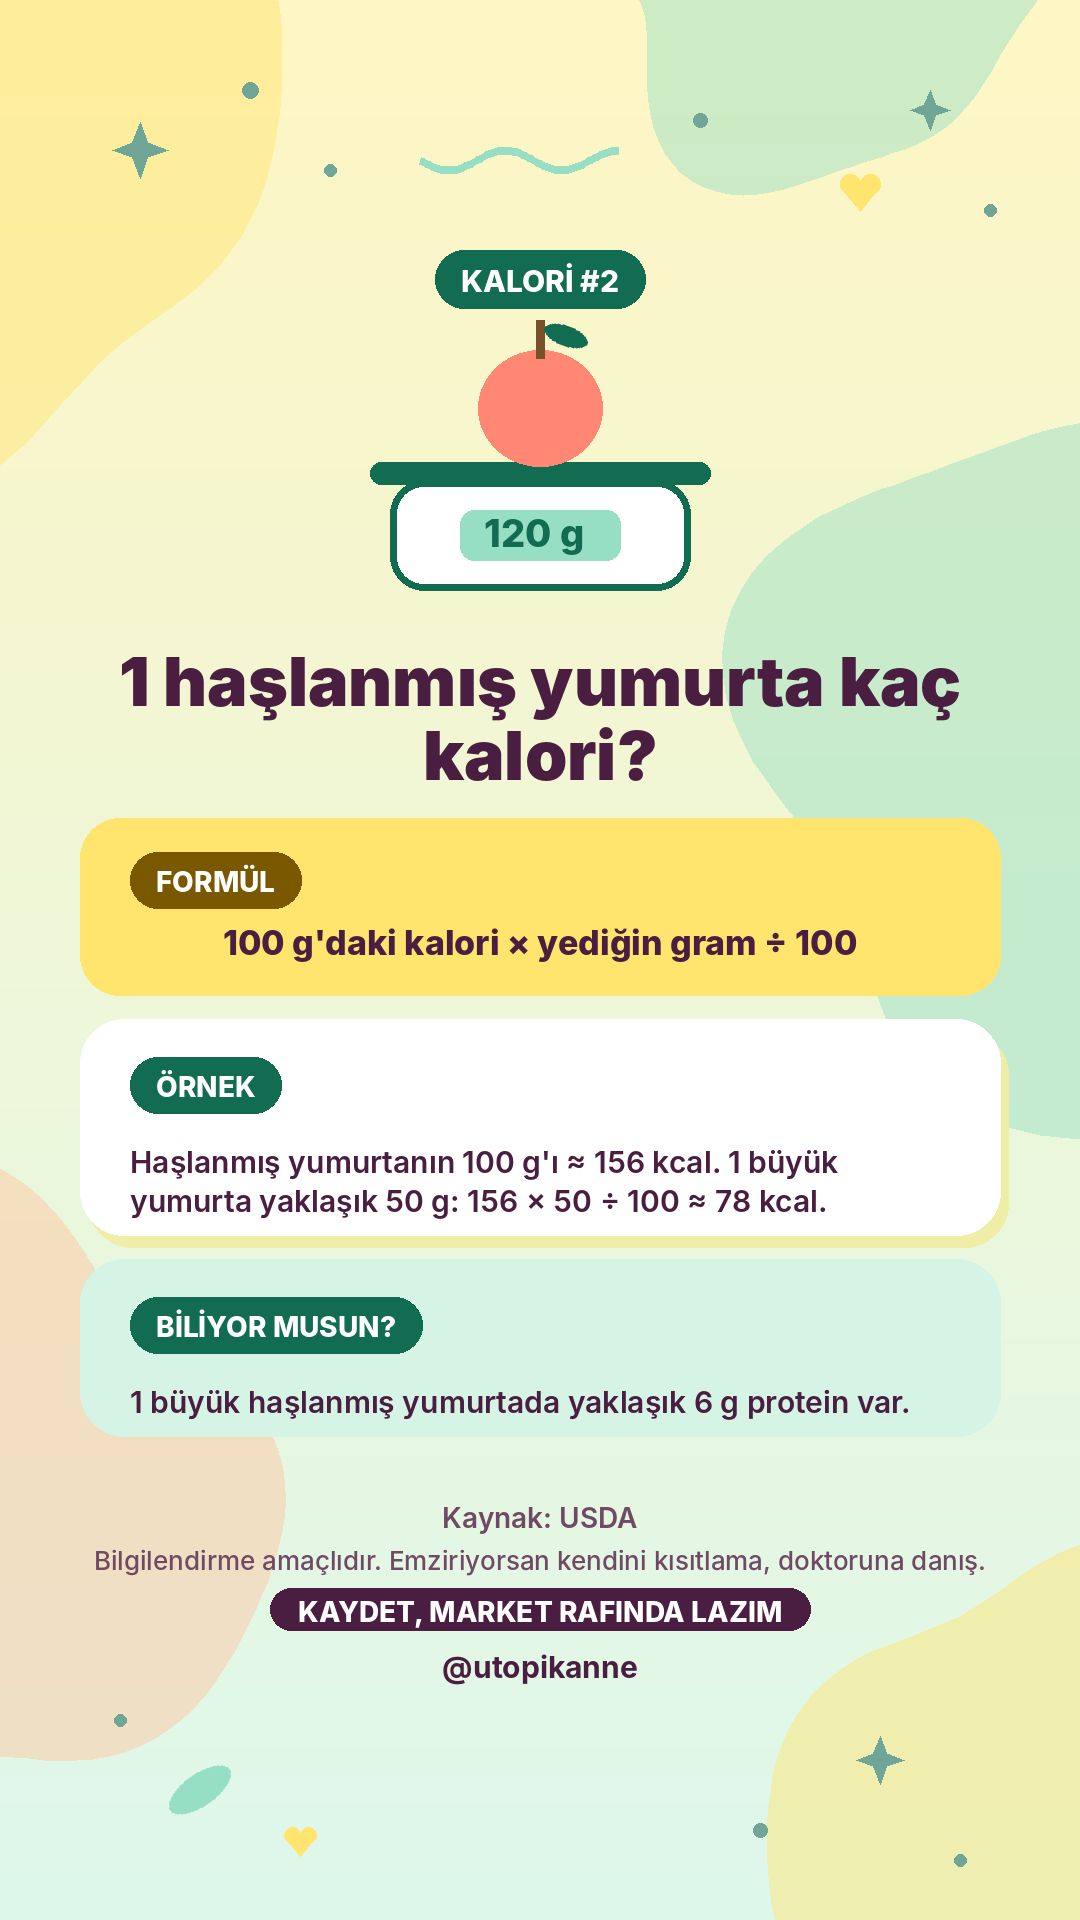
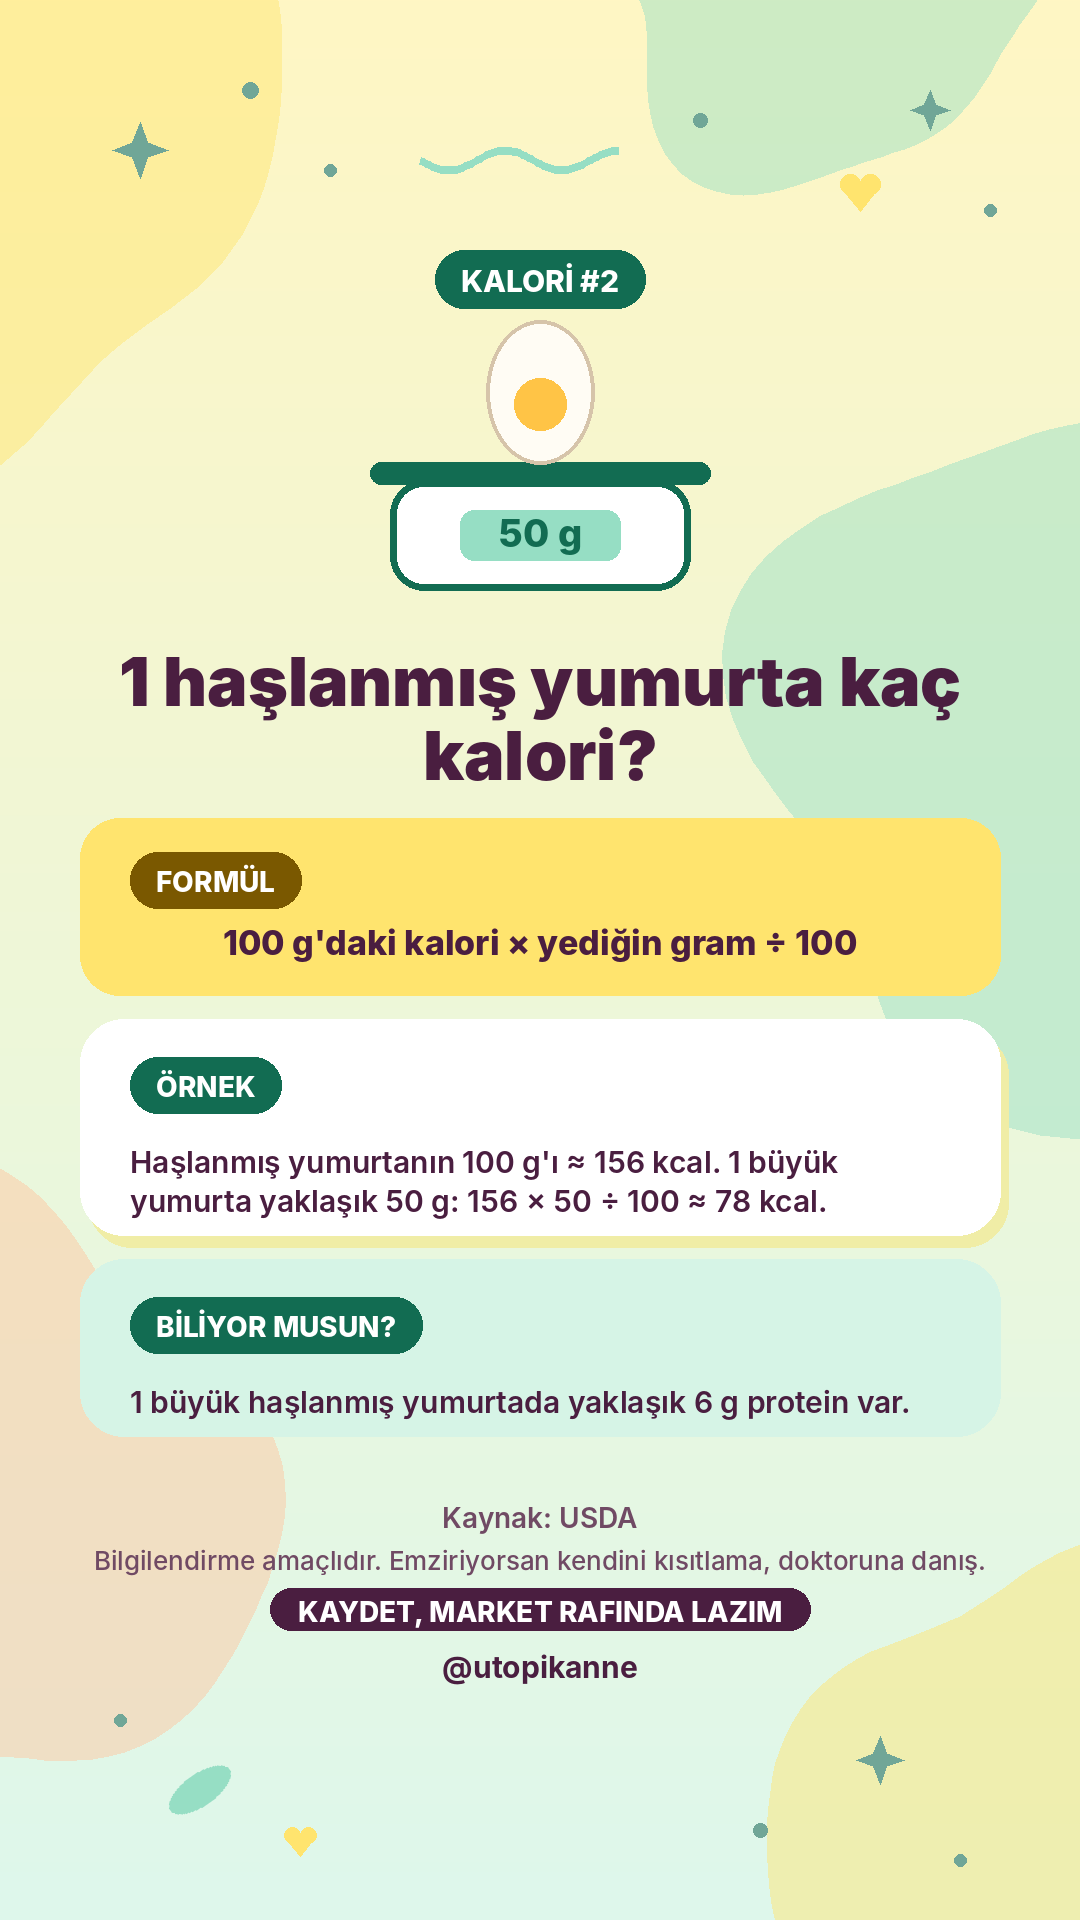
[utopikanne] KK düzeltmeleri: kalori terazisinde yumurta/50 g, carousel kapak ve son slayt
Claude-Session: https://claude.ai/code/session_01QGX4XsHZDpv2hzm9utu8fa

Changed region(s): [[0.4278, 0.1562, 0.5806, 0.2812]]

diff --git a/araclar/anne_renkli.py b/araclar/anne_renkli.py
@@ -723,23 +723,28 @@ def dm_cagrisi(path, soru, secenekler, cagri):
     return sigdir(ciz, path)
 
 
-def terazi(d, cx, cy):
-    """Kendi vektör çizimimiz: mutfak terazisi + elma."""
+def terazi(d, cx, cy, yazi="120 g", nesne="elma"):
+    """Kendi vektör çizimimiz: mutfak terazisi + elma ya da haşlanmış yumurta."""
     d.rounded_rectangle([cx - 150, cy + 10, cx + 150, cy + 120], radius=34, fill=BEYAZ, outline=K_NANE, width=7)
     d.rounded_rectangle([cx - 80, cy + 40, cx + 80, cy + 90], radius=14, fill=NANE)
-    d.text((cx - 56, cy + 40), "120 g", font=font("ExtraBold", 38), fill=K_NANE)
+    ft = font("ExtraBold", 38)
+    d.text((cx - d.textlength(yazi, font=ft) / 2, cy + 40), yazi, font=ft, fill=K_NANE)
     d.rounded_rectangle([cx - 170, cy - 8, cx + 170, cy + 14], radius=11, fill=K_NANE)
+    if nesne == "yumurta":
+        d.ellipse([cx - 54, cy - 150, cx + 54, cy - 6], fill=(255, 252, 244), outline=(214, 196, 170), width=4)
+        d.ellipse([cx - 26, cy - 92, cx + 26, cy - 40], fill=(255, 196, 70))
+        return
     d.ellipse([cx - 62, cy - 120, cx + 62, cy - 4], fill=MERCAN)
     d.rectangle([cx - 4, cy - 150, cx + 4, cy - 112], fill=(120, 80, 40))
     yaprak(d, cx + 26, cy - 134, 14, K_NANE, -20)
 
 
-def kalori(path, seri, baslik, formul, ornek, bilgi, kaynak, not_metni):
+def kalori(path, seri, baslik, formul, ornek, bilgi, kaynak, not_metni, terazi_yazi="120 g", nesne="elma"):
     """Kalori / besin değeri hap bilgisi (yetişkin; limon + nane). Kilo/diyet hedefi yok."""
     def ciz(k):
         img, d = zemin("kalori")
         rozet(d, 0, 250, seri_no(seri, "Kalori"), K_NANE, center=True)
-        terazi(d, 540, 470)
+        terazi(d, 540, 470, terazi_yazi, nesne)
         y = yaz(d, 0, 640, baslik, F("Black", 80, min(1, k + .1)), MURDUM, 920, 1.1, center=True) + 30
         # formül kartı (limon)
         f = F("ExtraBold", 46, k)
@@ -787,7 +792,7 @@ def c_zemin(tur, seed_ek=0):
     return img, d
 
 
-def c_alt(d, sayfa, toplam, tur, kaynak=None):
+def c_alt(d, sayfa, toplam, tur, kaynak=None, handle=True):
     """Alt bant (y≥1230): sayfa noktaları + @utopikanne; kaynak 1190 civarı."""
     koyu = TEMA[tur][3]
     if kaynak:
@@ -798,8 +803,9 @@ def c_alt(d, sayfa, toplam, tur, kaynak=None):
     for i in range(toplam):
         r = 8 if i + 1 == sayfa else 5
         d.ellipse([x0 + i * 26 - r, 1252 - r, x0 + i * 26 + r, 1252 + r], fill=koyu if i + 1 == sayfa else SOLUK)
-    f = font("Bold", 28)
-    d.text(((W - d.textlength(HANDLE, font=f)) / 2, 1278), HANDLE, font=f, fill=MURDUM)
+    if handle:
+        f = font("Bold", 28)
+        d.text(((W - d.textlength(HANDLE, font=f)) / 2, 1278), HANDLE, font=f, fill=MURDUM)
 
 
 def c_kaydet(img, path):
@@ -843,7 +849,7 @@ def carousel_kapak(path, tur, seri, kanca, alt, sayfa, toplam):
             yaz(d, 0, y + 24, alt, fa, koyu, 800, 1.25, center=True)
             y += th + 52 + 34
         f = font("ExtraBold", 30)
-        t = tr_buyuk("Kaydır, adım adım")
+        t = tr_buyuk("Kaydır")
         w = d.textlength(t, font=f) + 110
         d.rounded_rectangle([(W - w) / 2, y, (W + w) / 2, y + 62], radius=31, fill=MURDUM)
         d.text(((W - w) / 2 + 34, y + 14), t, font=f, fill=BEYAZ)
@@ -914,7 +920,7 @@ def carousel_son(path, tur, soru, sayfa, toplam, kaynak=None, not_metni=None):
         fh = font("Black", 64)
         d.text(((W - d.textlength(HANDLE, font=fh)) / 2, y + 24), HANDLE, font=fh, fill=koyu)
         y += 24 + 70
-        c_alt(d, sayfa, toplam, tur, kaynak)
+        c_alt(d, sayfa, toplam, tur, kaynak, handle=False)
         return img, y
     return c_sigdir(ciz, path)
 

diff --git a/araclar/anne_gun.py b/araclar/anne_gun.py
@@ -49,7 +49,7 @@ def uret(tarih, o, cikis=None):
                           not_metni=o.get("not"))
     elif s == "kalori":
         R.kalori(p, o.get("seri"), o["baslik"], o["formul"], o["ornek"], o["bilgi"], o["kaynak"],
-                 o.get("not", "Bilgilendirme amaçlıdır."))
+                 o.get("not", "Bilgilendirme amaçlıdır."), o.get("terazi", "120 g"), o.get("nesne", "elma"))
     elif s == "dm":
         R.dm_cagrisi(p, o["soru"], o["secenekler"], o["cagri"])
     elif s == "iyi_geceler":
